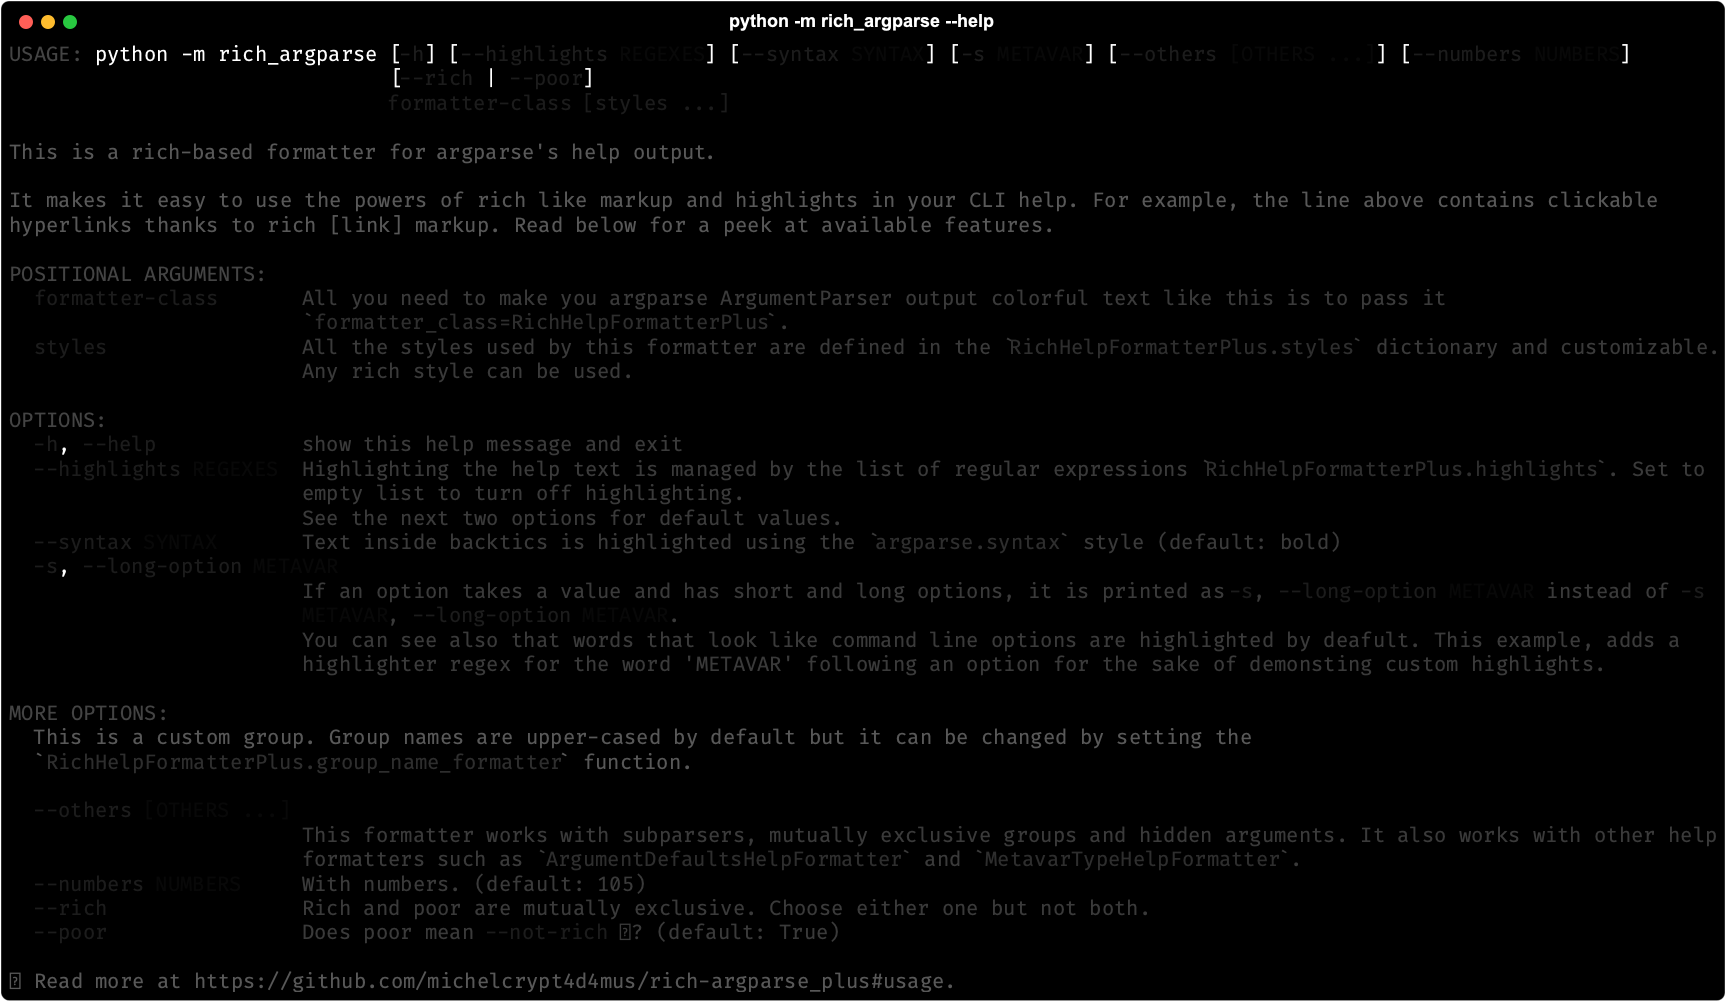
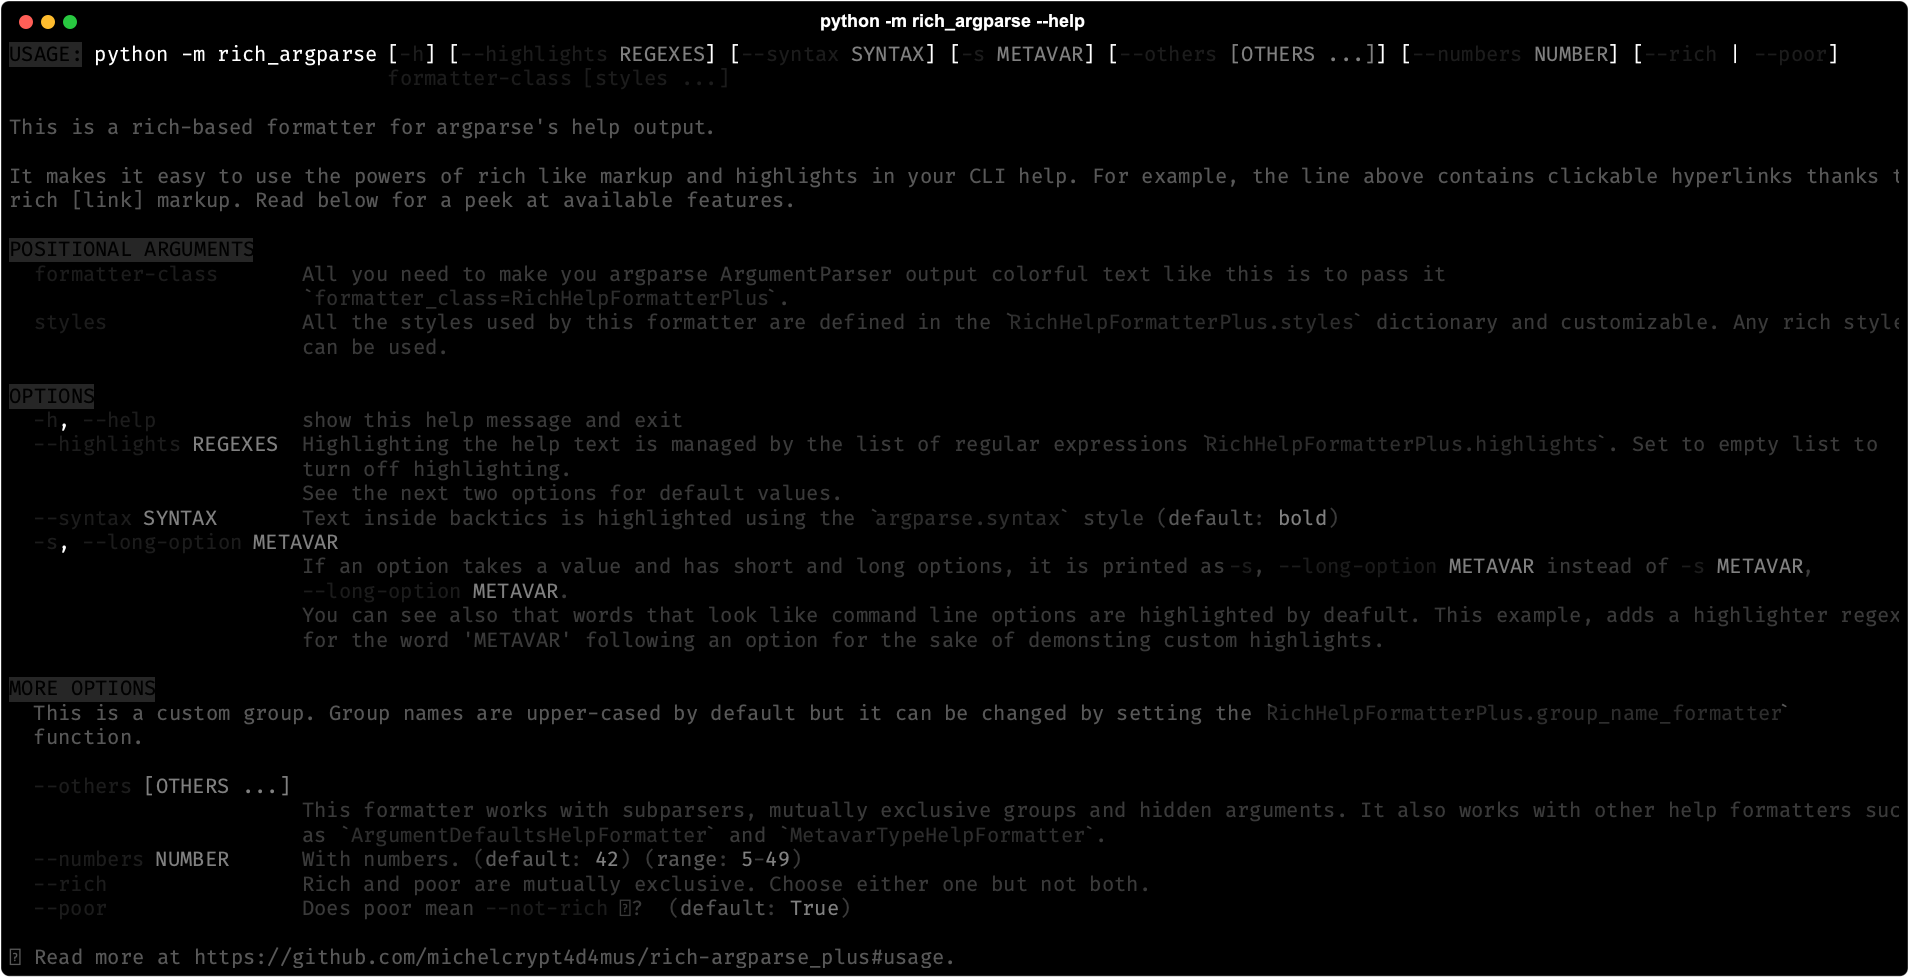
the-pink

diff --git a/rich_argparse_plus/theme_scripts.py b/rich_argparse_plus/theme_scripts.py
@@ -33,7 +33,7 @@ def random_theme_stream() -> None:
         _print_theme_styles(theme)
         RichHelpFormatterPlus.styles = random_theme()
         _print_help_text()
-        sleep(2)
+        sleep(1)
 
 
 def render_all_themes() -> None:
@@ -42,14 +42,20 @@ def render_all_themes() -> None:
 
 
 def random_theme() -> dict:
-    return {
+    theme = {
         ARGPARSE_ARGS: _random_style(),
+        ARGPARSE_DEFAULT: _random_style(),
         ARGPARSE_DESCRIPTION: _random_style(),
         ARGPARSE_GROUPS: _random_style(),
         ARGPARSE_HELP: _random_style(),
         ARGPARSE_METAVAR: _random_style(),
         ARGPARSE_SYNTAX: _random_style(),
     }
+
+    if randint(0, 10) == 10:
+        theme[ARGPARSE_PANEL] = _random_style()
+
+    return theme
 
 
 def _print_theme_styles(theme: dict) -> None:

diff --git a/rich_argparse_plus/themes.py b/rich_argparse_plus/themes.py
@@ -141,7 +141,7 @@ ARGPARSE_COLOR_THEMES: dict[str, dict[str, StyleType]] = {
         ARGPARSE_SYNTAX: 'color(190) bold'
     },
 
-    'roses': {
+    'the_pink': {
        ARGPARSE_ARGS: 'color(198) italic',
        ARGPARSE_GROUPS: 'color(60) bold',
        ARGPARSE_HELP: 'color(8)',

diff --git a/README.md b/README.md
@@ -52,17 +52,21 @@ You can view images of all the themes [here in the repo](https://github.com/mich
 
 Here's a couple of them:
 
-##### **roses**
-![black_and_white](https://github.com/michelcrypt4d4mus/rich-argparse/blob/rich_argparse_plus/doc/themes/python_-m_rich_argparse_help_roses_theme.png)
+##### **the_pink**
+![the_pink](https://github.com/michelcrypt4d4mus/rich-argparse/blob/rich_argparse_plus/doc/themes/python_-m_rich_argparse_help_the_pink_theme.png)
 
 ##### **black_and_white**
 ![black_and_white](https://github.com/michelcrypt4d4mus/rich-argparse/blob/rich_argparse_plus/doc/themes/python_-m_rich_argparse_help_black_and_white_theme.png)
 
+##### **morning_glory**
+![morning_glory](https://github.com/michelcrypt4d4mus/rich-argparse/blob/rich_argparse_plus/doc/themes/python_-m_rich_argparse_help_morning_glory_theme.png)
+
 ##### **dracula**
 ![dracula](https://github.com/michelcrypt4d4mus/rich-argparse/blob/rich_argparse_plus/doc/themes/python_-m_rich_argparse_help_dracula_theme.png)
 
-##### **default**
-![default](https://github.com/michelcrypt4d4mus/rich-argparse/blob/rich_argparse_plus/doc/themes/python_-m_rich_argparse_help_default_theme.png)
+##### **grey_area**
+![default](https://github.com/michelcrypt4d4mus/rich-argparse/blob/rich_argparse_plus/doc/themes/python_-m_rich_argparse_help_grey_area_theme.png)
+
 
 #### The Random Theme Stream Channel
 
